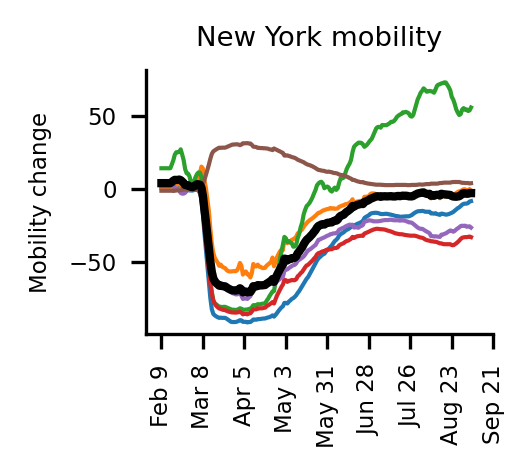
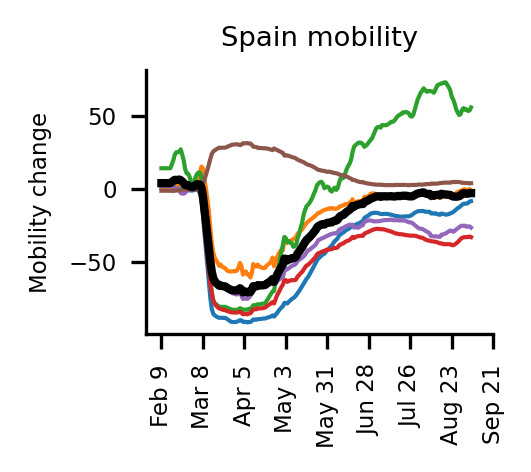
added mobility

Changed region(s): [[0.3616, 0.0593, 0.8437, 0.1186]]

diff --git a/modelling/Spain/model.py b/modelling/Spain/model.py
@@ -174,7 +174,7 @@ def read_and_format_data(datadir, outdir):
         #Reverse residential
         y[5,:] = -y[5,:]
         plt.plot(np.arange(y.shape[1]),np.average(y,axis=0), label = 'Average', linewidth=2, color = 'k')
-        plt.title('New York mobility')
+        plt.title('Spain mobility')
         ax.spines['top'].set_visible(False)
         ax.spines['right'].set_visible(False)
         ax.set_xticks(x_dates)
